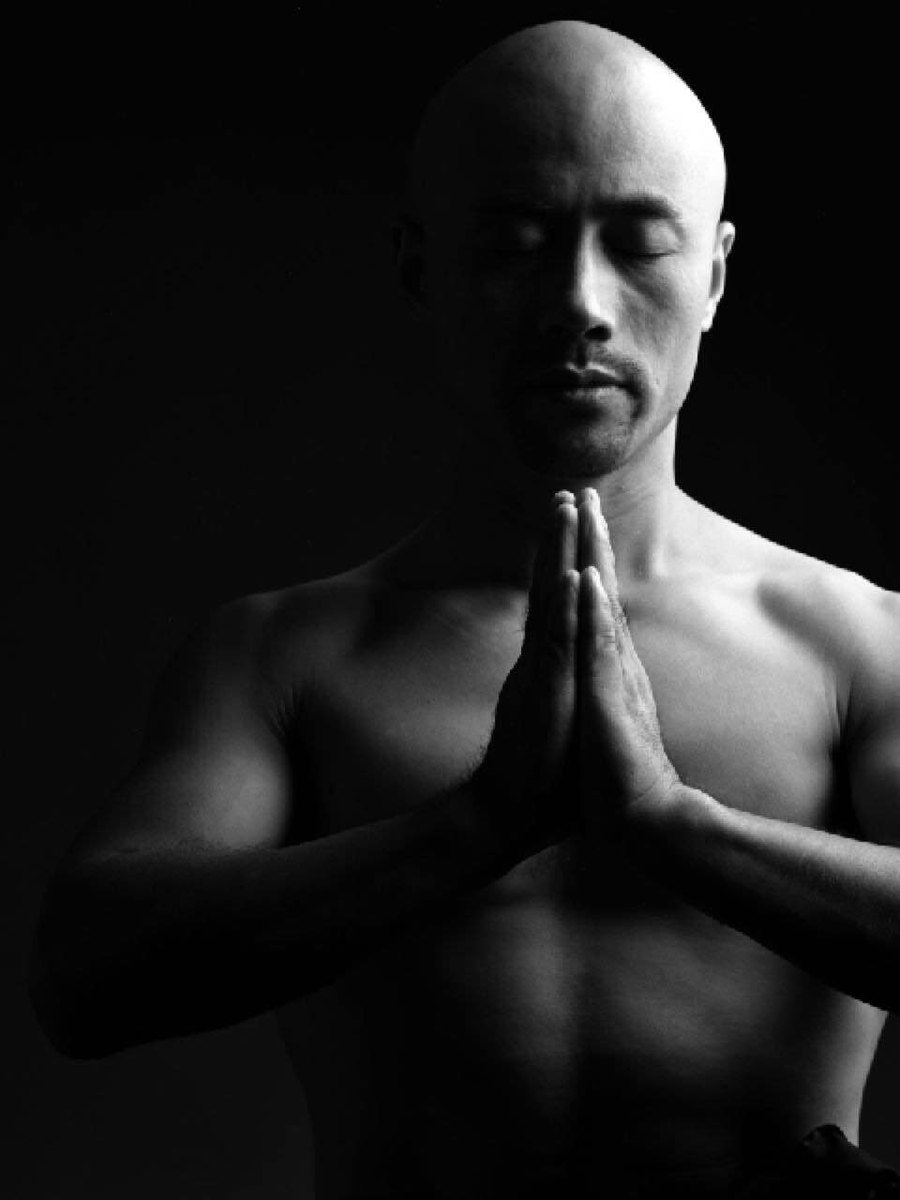
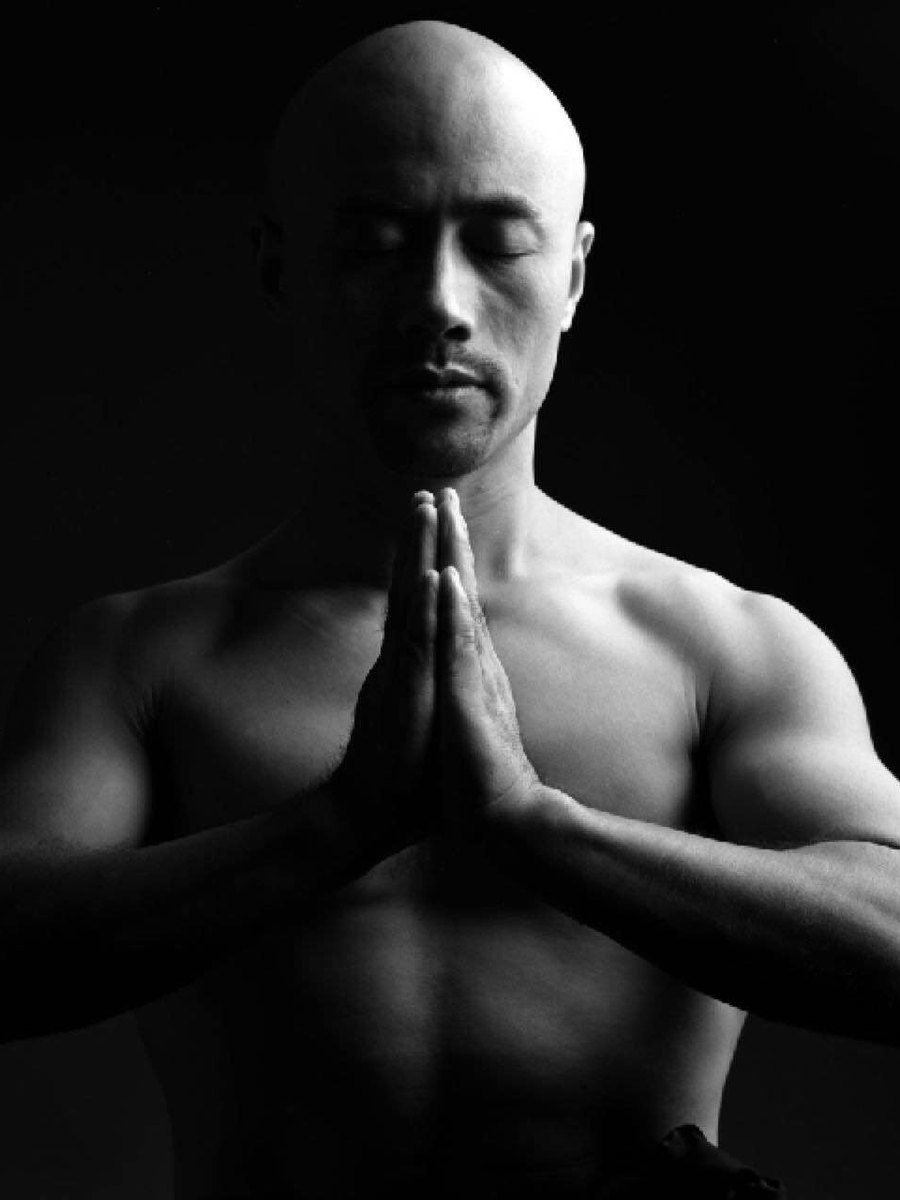
创始人头像居中；英文履历每句独占一行
头像：此前按画面中心裁切，但人物脸部实际位于原图 62% 处，导致主体偏出框外。
改为以脸部为中心裁切（310–1270 of 1280），主体归正。

英文履历：说明文字按句拆行，每句独占一行，不再出现一句话被从中间折断、
或两句挤在同一行的情况。同时把配图从 240px 收到 210px，让出文字宽度至 741px。

断句正则修了一处真 bug：原先写作 /(?<![A-Z])(?<=[.;])\s+/，两个后行断言检查的是
同一个位置——句点本身，而句点永远不是大写字母，等于负向断言从未生效，
结果 "President S. R. Nathan" 被拆成三行。改为 /(?<=[.;])(?<![A-Z][.;])\s+(?=[A-Z])/，
往前看两个字符以识别人名缩写。

余下 6 句英文超出可用宽度（116–133 字符）无法单行显示，已在不丢信息的前提下
精简措辞。现 17 句全部单行。

diff --git a/src/lib/founder.ts b/src/lib/founder.ts
@@ -38,7 +38,7 @@ const M: Milestone[] = [
     title: { zh: "生于山东武术世家", en: "Born into a martial arts family in Shandong" },
     detail: {
       zh: "六岁起随祖父与父亲习武，兼修武术、散打与太极。后毕业于安徽宿州体育学院、新加坡中华总商会管理学院。",
-      en: "He began training with his grandfather and father at the age of six, studying wushu, sanda and tai chi. He later graduated from the Suzhou Institute of Physical Education in Anhui and the SCCCI Institute of Business in Singapore.",
+      en: "He began training with his grandfather and father at six, studying wushu, sanda and tai chi. Later a graduate of Suzhou Institute of Physical Education and SCCCI Institute of Business.",
     },
     photo: "/founder/1970-childhood.jpg",
     alt: { zh: "陈庆彪童年照", en: "Chen Qingbiao as a child" },
@@ -48,7 +48,7 @@ const M: Milestone[] = [
     title: { zh: "郑州 · 新加坡电视台功夫演员大赛", en: "Zhengzhou · MediaCorp Singapore kung fu talent search" },
     detail: {
       zh: "近千名参赛者中脱颖而出，获选前四名，受邀赴新加坡签约为电视台艺人。",
-      en: "Handpicked from nearly a thousand entrants as one of the final four, and signed as a MediaCorp artiste in Singapore.",
+      en: "Handpicked from nearly a thousand entrants as one of the final four, and signed by MediaCorp Singapore.",
     },
     photo: "/founder/1992-selection.jpg",
     alt: { zh: "1992 年入选的四位功夫演员", en: "The four selected kung fu performers, 1992" },
@@ -115,7 +115,7 @@ const M: Milestone[] = [
     title: { zh: "郑州 · 世界首届传统武术节 双金", en: "Zhengzhou · Double gold, First World Traditional Wushu Festival" },
     detail: {
       zh: "62 个参赛国家、2000 余名选手角逐，代表新加坡夺得地躺拳与象形拳双项冠军。",
-      en: "Representing Singapore against more than 2,000 competitors from 62 countries, he took gold in both Ditangquan and Xiangxingquan.",
+      en: "Gold in both Ditangquan and Xiangxingquan, against 2,000+ competitors from 62 countries.",
     },
     photo: "/assets/founder_133_medals_portrait.jpg",
     alt: { zh: "2004 年获双金牌", en: "With both gold medals, 2004" },
@@ -132,7 +132,7 @@ const M: Milestone[] = [
     title: { zh: "新加坡 · 功夫偶像大赛双冠", en: "Singapore · Kung Fu Idol, double champion" },
     detail: {
       zh: "哥伦比亚电影公司于周星驰《功夫》上映之际举办，获最佳功夫与最佳表演双项冠军。",
-      en: "Organised by Columbia Pictures for the Singapore launch of Stephen Chow's Kung Fu Hustle; won both Best Kung Fu and Best Performance.",
+      en: "Held by Columbia Pictures for the Singapore launch of Stephen Chow's Kung Fu Hustle. Won Best Kung Fu and Best Performance.",
     },
     photo: "/founder/2004-kungfuidol.jpg",
     alt: { zh: "功夫偶像大赛现场", en: "At the Kung Fu Idol competition" },
@@ -142,7 +142,7 @@ const M: Milestone[] = [
     title: { zh: "世界首部功夫音乐剧《黄飞鸿》", en: "The world's first kung fu musical · A Kung Fu Tale" },
     detail: {
       zh: "自编自导自演，于新加坡滨海艺术中心首演。时任新加坡总统纳丹先生出席首演之夜，李连杰的师父吴彬担任武术顾问。",
-      en: "He wrote, directed and starred in it. The show premiered at the Esplanade Theatre in Singapore; President S. R. Nathan attended opening night, and Wu Bin — Jet Li's own master — served as martial arts consultant.",
+      en: "He wrote, directed and starred in it. It premiered at Singapore's Esplanade Theatre, with President S. R. Nathan at opening night. Wu Bin — Jet Li's own master — was martial arts consultant.",
     },
     photo: "/founder/2006-musical.jpg",
     alt: { zh: "《黄飞鸿》音乐剧海报", en: "A Kung Fu Tale poster" },
@@ -152,7 +152,7 @@ const M: Milestone[] = [
     title: { zh: "北京 ·《功夫宝贝 KUNG FU KIDS》", en: "Beijing · KUNG FU KIDS" },
     detail: {
       zh: "于蓝色港湾创立，至 2015 年发展至 9 家直营店，成为北京规模最大的功夫教育机构。",
-      en: "Founded at Solana, Beijing, and grown to nine directly-operated schools by 2015 — the largest kung fu academy in the city.",
+      en: "Founded at Solana and grown to nine schools by 2015 — Beijing's largest kung fu academy.",
     },
     photo: "/founder/2008-kungfukids.jpg",
     alt: { zh: "《功夫宝贝》海报", en: "KUNG FU KIDS poster" },

diff --git a/src/components/Timeline.tsx b/src/components/Timeline.tsx
@@ -3,6 +3,16 @@ import { getEras, getMilestones } from "@/lib/founder";
 import type { Locale } from "@/lib/locales";
 
 /**
+ * 英文说明按句拆行，每句独占一行，不与相邻句子挤在同一行。
+ *
+ * (?<=[.;])         紧邻的前一个字符是句点或分号
+ * (?<![A-Z][.;])    但前两个字符不是「大写字母 + 句点」——避开 S. R. Nathan 这类缩写
+ * (?=[A-Z])         后面紧跟大写字母，即确实是新句开头
+ */
+const splitSentences = (text: string) =>
+  text.split(/(?<=[.;])(?<![A-Z][.;])\s+(?=[A-Z])/).filter(Boolean);
+
+/**
  * 创始人履历时间线。
  *
  * 左列年份、中间一道金线串起节点、右列内容与配图。
@@ -49,16 +59,23 @@ export function Timeline({ locale }: { locale: Locale }) {
               </div>
 
               {/* 内容：桌面端图片置于文字右侧，整体更紧凑；窄屏下堆叠 */}
-              <div className="flex flex-col gap-4 pb-9 md:flex-row md:items-start md:gap-7">
+              <div className="flex flex-col gap-4 pb-9 md:flex-row md:items-start md:gap-6">
                 <div className="min-w-0 flex-1">
                   <h4 className="font-serif-sc text-[17px] leading-[1.5] font-black text-white md:text-xl">
                     {m.title}
                   </h4>
-                  {m.detail && (
-                    <p className="mt-2 max-w-[54ch] text-[13px] leading-[1.95] text-rice-dim md:text-sm">
-                      {m.detail}
-                    </p>
-                  )}
+                  {m.detail &&
+                    (locale === "en" ? (
+                      <div className="mt-2 space-y-[3px] text-[13px] leading-[1.9] text-rice-dim md:text-sm">
+                        {splitSentences(m.detail).map((line) => (
+                          <p key={line}>{line}</p>
+                        ))}
+                      </div>
+                    ) : (
+                      <p className="mt-2 text-[13px] leading-[1.95] text-rice-dim md:text-sm">
+                        {m.detail}
+                      </p>
+                    ))}
                 </div>
 
                 {m.photo && (
@@ -68,8 +85,8 @@ export function Timeline({ locale }: { locale: Locale }) {
                       alt={m.alt ?? m.title}
                       width={880}
                       height={600}
-                      sizes="(max-width: 780px) 90vw, 240px"
-                      className="h-auto w-full max-h-[200px] object-contain md:w-[240px]"
+                      sizes="(max-width: 780px) 90vw, 210px"
+                      className="h-auto max-h-[180px] w-full object-contain md:w-[210px]"
                     />
                   </figure>
                 )}
